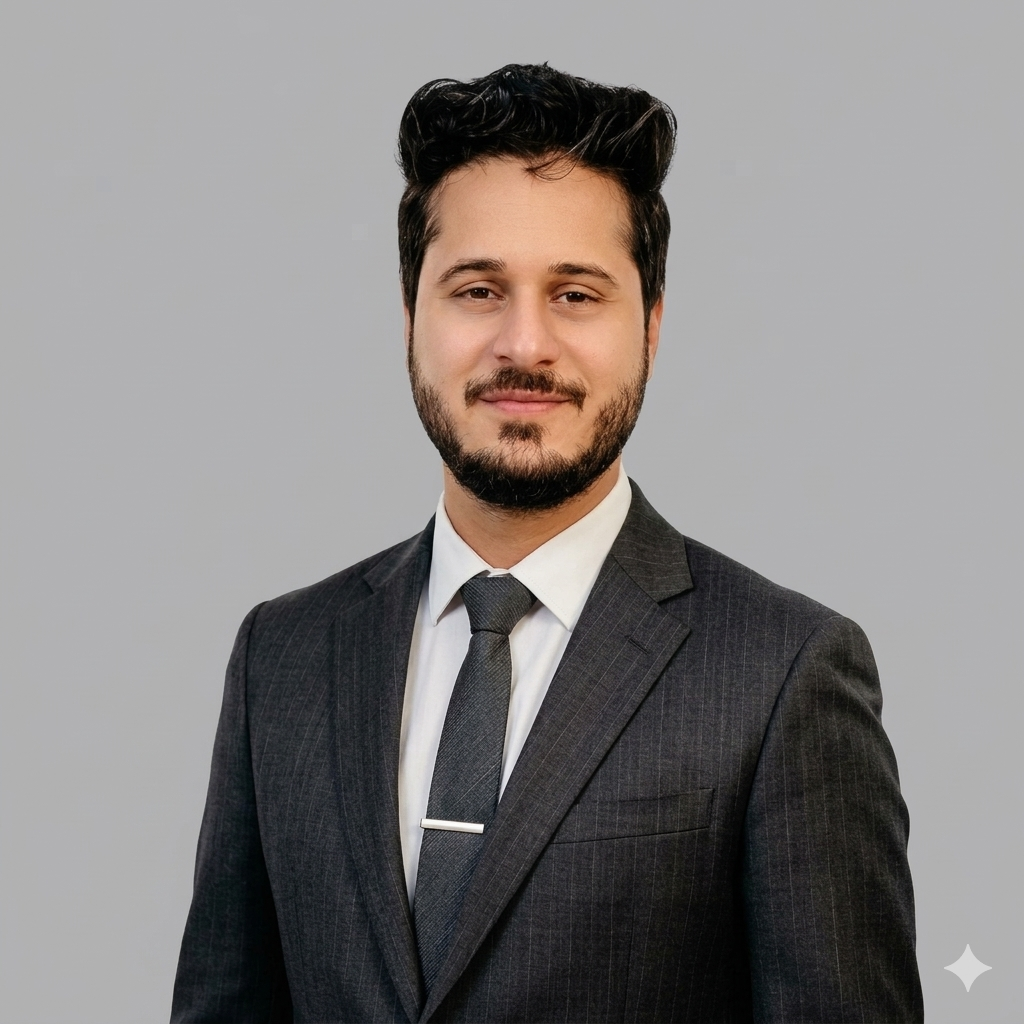
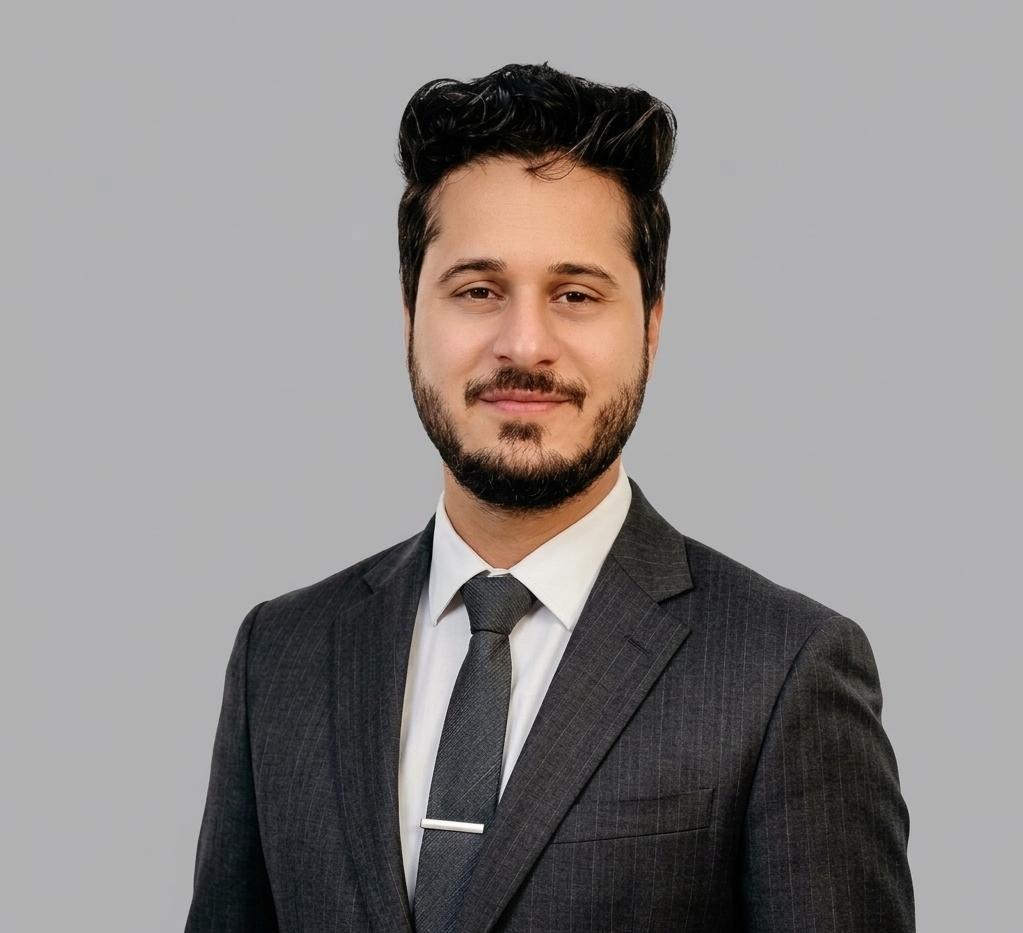
fix(cro): resolve P0/P1 conversion leaks and update founder photo across site

diff --git a/components/FounderSection.tsx b/components/FounderSection.tsx
@@ -85,17 +85,6 @@ const profileLinks = [
     ),
   },
   {
-    href: "https://www.upwork.com/freelancers/~01400266ea842005be",
-    label: "Upwork",
-    bg: "#EAF3DE",
-    textColor: "#27500A",
-    icon: (
-      <svg className="h-4 w-4" viewBox="0 0 24 24" fill="currentColor">
-        <path d="M18.561 13.158c-1.102 0-2.135-.467-3.074-1.227l.228-1.076.008-.042c.207-1.143.849-3.06 2.839-3.06 1.492 0 2.703 1.212 2.703 2.703-.001 1.489-1.212 2.702-2.704 2.702zm0-8.14c-2.539 0-4.51 1.649-5.31 4.366-1.22-1.834-2.148-4.036-2.687-5.892H7.828v7.112c-.002 1.406-1.141 2.546-2.547 2.548-1.405-.002-2.543-1.143-2.545-2.548V3.492H0v7.112c0 2.914 2.37 5.303 5.281 5.303 2.913 0 5.283-2.389 5.283-5.303v-1.19c.529 1.107 1.182 2.229 1.974 3.221l-1.673 7.873h2.797l1.213-5.71c1.063.679 2.285 1.109 3.686 1.109 3 0 5.439-2.452 5.439-5.45 0-3.001-2.439-5.438-5.439-5.438z" />
-      </svg>
-    ),
-  },
-  {
     href: "https://www.researchgate.net/profile/Mubashar-Shahzad-4",
     label: "ResearchGate",
     bg: "#FAECE7",
@@ -132,20 +121,6 @@ const profileLinks = [
  
 export default function FounderSection() {
   return (
-    // Reworked into the same language as the rest of the page: flat token
-    // ground, hairline-bordered white cards at 12px with the soft
-    // 0 2px 12px shadow, and one accent instead of five.
-    //
-    // What went, and why:
-    //   - two gradient top-bars (purple -> green) and a gradient CTA button.
-    //     Semrush uses flat solid fills; a gradient reads as dated chrome next
-    //     to everything else here.
-    //   - the blurred blob behind the CTA card. Decoration on a credibility
-    //     block buys nothing.
-    //   - four pastel certificate chips and five pastel profile chips, each in
-    //     its own hue. Nine background colours in one section made a list of
-    //     verifiable credentials look like a sticker sheet; they are neutral
-    //     rows now, which reads as a record.
     <section className="border-y border-[#e6e8f0] bg-[#f8f9fc] py-20 sm:py-24">
       <div className="mx-auto max-w-6xl px-4 sm:px-6 lg:px-8">
         <motion.div
@@ -162,8 +137,7 @@ export default function FounderSection() {
           </h2>
           <p className="mt-4 text-lg leading-relaxed text-[#566070]">
             Every strategy here comes from campaigns I ran myself for US ecommerce, law firm
-            and local clients &mdash; and every credential below opens the certificate that
-            proves it.
+            and local clients &mdash; backed by unedited Search Console and store revenue proof.
           </p>
         </motion.div>
 
@@ -174,33 +148,27 @@ export default function FounderSection() {
             whileInView={{ opacity: 1, y: 0 }}
             viewport={{ once: true }}
             transition={{ duration: 0.5 }}
-            className="rounded-xl border border-[#e6e8f0] bg-white shadow-[0_2px_12px_rgba(0,0,0,0.05)]"
+            className="flex flex-col justify-between rounded-xl border border-[#e6e8f0] bg-white shadow-[0_2px_12px_rgba(0,0,0,0.05)]"
           >
             <div className="border-b border-[#eef0f6] p-6 sm:p-7">
               <div className="flex items-center gap-4">
-                <div className="relative h-16 w-16 shrink-0 overflow-hidden rounded-full">
+                <div className="relative h-20 w-20 shrink-0 overflow-hidden rounded-full border border-[#e6e8f0] bg-[#eaecf3]">
                   <Image
                     src="/images/mubashar-sharif.jpg"
                     alt="Mubashar Sharif, Founder and CEO of SearchPrex"
                     fill
-                    sizes="64px"
-                    /* The portrait is a wide office shot, so at 64px the face
-                       would sit small in the middle of the room. Scaling in CSS
-                       frames the head without cropping the file itself. */
-                    className="origin-[52%_26%] scale-[1.75] object-cover"
+                    sizes="80px"
+                    className="object-cover object-top"
                   />
                 </div>
                 <div className="min-w-0">
                   <h3 className="text-xl font-bold text-[#0a0f2e]">Mubashar Sharif</h3>
                   <p className="text-sm text-[#566070]">
-                    Founder &amp; CEO &middot; SearchPrex &mdash; SEO Analyst, 5+ years
+                    Founder &amp; CEO &middot; SearchPrex &mdash; SEO Strategist, 5+ years
                   </p>
-                  <div className="mt-1.5 flex items-center gap-1">
-                    {[...Array(5)].map((_, i) => (
-                      <Star key={i} className="h-3 w-3 fill-[#EF9F27] text-[#EF9F27]" />
-                    ))}
-                    <span className="ml-1 text-xs text-[#566070]">Upwork Top Rated</span>
-                  </div>
+                  <p className="mt-1 text-xs font-semibold text-[#196b4d]">
+                    Direct Founder Execution &middot; US Market Exclusivity
+                  </p>
                 </div>
               </div>
 
@@ -214,39 +182,6 @@ export default function FounderSection() {
                 with US organic clicks up 83% over the same period. Every number I publish comes
                 from a Search Console export I can show you.&rdquo;
               </blockquote>
-            </div>
-
-            {/* Certificates: a checkable list, not a sticker sheet */}
-            <div className="border-b border-[#eef0f6] p-6 sm:p-7">
-              <p className="text-xs font-bold uppercase tracking-widest text-[#5f6a78]">
-                Semrush certified &mdash; click to verify
-              </p>
-              <div className="mt-4 grid gap-2 sm:grid-cols-2">
-                {credentials.map((c) => (
-                  <Link
-                    key={c.label}
-                    href={c.href}
-                    target="_blank"
-                    rel="noopener noreferrer"
-                    className="group flex items-start gap-2.5 rounded-lg border border-[#e6e8f0] bg-white px-3 py-2.5 transition-colors hover:border-[#534AB7]/40 hover:bg-[#fafbfd]"
-                  >
-                    <CheckCircle
-                      className="mt-0.5 h-4 w-4 shrink-0"
-                      style={{ color: c.color }}
-                      aria-hidden="true"
-                    />
-                    <span className="min-w-0">
-                      <span className="block text-sm font-bold leading-snug text-[#0a0f2e]">
-                        {c.label}
-                      </span>
-                      <span className="mt-0.5 flex items-center gap-1 text-xs text-[#566070]">
-                        {c.sub}
-                        <ExternalLink className="h-3 w-3 opacity-60 transition-opacity group-hover:opacity-100" />
-                      </span>
-                    </span>
-                  </Link>
-                ))}
-              </div>
             </div>
 
             <div className="p-6 sm:p-7">

diff --git a/components/ArticleLeadMagnet.tsx b/components/ArticleLeadMagnet.tsx
@@ -103,6 +103,15 @@ function SuccessState({ website, email }: { website: string; email: string }) {
         I&apos;ll read {website.trim() || "your site"} myself and reply to{" "}
         <strong style={{ color: INK }}>{email.trim()}</strong> within 24 hours.
       </p>
+      <a
+        href={CALL_HREF}
+        target="_blank"
+        rel="noopener noreferrer"
+        className="mt-3 inline-flex items-center justify-center rounded-lg px-3.5 py-2 text-xs font-bold text-white transition-opacity hover:opacity-90"
+        style={{ background: GREEN }}
+      >
+        Want to talk sooner? Book 30 min →
+      </a>
     </div>
   );
 }
@@ -149,6 +158,7 @@ function SidebarVariant({ source, copy }: { source: string; copy?: Copy }) {
             <Globe className="pointer-events-none absolute left-3 top-1/2 h-3.5 w-3.5 -translate-y-1/2" style={{ color: "#94a3b8" }} aria-hidden="true" />
             <input
               type="text"
+              required
               value={website}
               onChange={(e) => setWebsite(e.target.value)}
               placeholder="yoursite.com"
@@ -227,6 +237,7 @@ function BannerVariant({ source, copy }: { source: string; copy?: Copy }) {
                 <Globe className="pointer-events-none absolute left-3.5 top-1/2 h-4 w-4 -translate-y-1/2" style={{ color: "#94a3b8" }} aria-hidden="true" />
                 <input
                   type="text"
+                  required
                   value={website}
                   onChange={(e) => setWebsite(e.target.value)}
                   placeholder="yoursite.com"
@@ -290,6 +301,7 @@ function BottomVariant({ source, copy }: { source: string; copy?: Copy }) {
                 <Globe className="pointer-events-none absolute left-3.5 top-1/2 h-4 w-4 -translate-y-1/2 text-white/40" aria-hidden="true" />
                 <input
                   type="text"
+                  required
                   value={website}
                   onChange={(e) => setWebsite(e.target.value)}
                   placeholder="yoursite.com"

diff --git a/components/BlogTeaser.tsx b/components/BlogTeaser.tsx
@@ -71,15 +71,13 @@ export default function BlogTeaser() {
               </p>
               <div className="mt-auto flex items-center justify-between border-t border-[#e5e7eb] pt-5">
                 <div className="flex items-center gap-2">
-                  {/* Wrapper clips the zoom: the portrait is a wide office
-                      shot, so the face needs framing at avatar sizes. */}
-                  <span className="relative block h-7 w-7 overflow-hidden rounded-full">
+                  <span className="relative block h-7 w-7 overflow-hidden rounded-full bg-[#eaecf3]">
                     <Image
                       src={featured.author.avatar}
                       alt={featured.author.name}
                       width={28}
                       height={28}
-                      className="h-7 w-7 origin-[52%_26%] scale-[1.75] object-cover"
+                      className="h-7 w-7 object-cover object-top scale-125 translate-y-0.5"
                     />
                   </span>
                   <span className="text-xs font-semibold text-[#0a0f2e]">
@@ -122,13 +120,13 @@ export default function BlogTeaser() {
                     {p.title}
                   </h3>
                   <div className="mt-auto flex items-center gap-2 border-t border-[#e5e7eb] pt-4">
-                    <span className="relative block h-6 w-6 overflow-hidden rounded-full">
+                    <span className="relative block h-6 w-6 overflow-hidden rounded-full bg-[#eaecf3]">
                       <Image
                         src={p.author.avatar}
                         alt={p.author.name}
                         width={24}
                         height={24}
-                        className="h-6 w-6 origin-[52%_26%] scale-[1.75] object-cover"
+                        className="h-6 w-6 object-cover object-top scale-125 translate-y-0.5"
                       />
                     </span>
                     <span className="text-xs font-semibold text-[#0a0f2e]">

diff --git a/app/page.tsx b/app/page.tsx
@@ -112,7 +112,7 @@ const TABS: AudienceTab[] = [
       "An AI intake assistant, so a 2am enquiry is not lost",
     ],
     proof: {
-      text: "No law firm client has been published yet. The practice-area pages show the plan, and the free tear-down lets you test me on your own firm first.",
+      text: "No law firm client has been published yet — which means the first firm I partner with in your city gets direct founder execution and market exclusivity while we build our flagship legal case study. Start with the free tear-down to test me on your firm first.",
       href: "/services/law-firm-seo",
       honest: true,
     },
@@ -418,7 +418,7 @@ export default function Home() {
       </section>
 
       {/* 4 · MID FORM */}
-      <section className="px-4 py-16 sm:px-6">
+      <section id="mid-audit-form" className="px-4 py-16 sm:px-6">
         <div className="mx-auto max-w-4xl rounded-[2rem] border border-[#dcdaf6] bg-[#f6f5ff] px-6 py-10 text-center sm:px-10">
           <h2 className={`${H} text-2xl  tracking-tight text-[#0a0f2e] sm:text-3xl`}>Want to know where your site stands?</h2>
           <p className="mx-auto mt-3 max-w-xl text-[15px] leading-relaxed text-[#5b6472]">
@@ -657,7 +657,7 @@ export default function Home() {
         </div>
       </section>
       {/* 13 · CLOSE — the last thing on the page is the offer */}
-      <section className="px-4 pb-20 sm:px-6">
+      <section id="get-started" className="scroll-mt-24 px-4 pb-20 sm:px-6">
         <div className="mx-auto max-w-5xl rounded-[2rem] bg-[#0a0f2e] px-6 py-14 text-center sm:px-12">
           <h2 className={`${H} mx-auto max-w-2xl text-3xl  tracking-tight text-white sm:text-4xl`}>
             Send me your URL. I&apos;ll tell you what&apos;s holding it back.

diff --git a/components/home/PillForm.tsx b/components/home/PillForm.tsx
@@ -88,11 +88,21 @@ export default function PillForm({ source, tone = "light", cta = "Get my free te
 
   if (step === "done") {
     return (
-      <div className={`mx-auto flex max-w-xl items-start gap-3 rounded-3xl border p-5 text-left ${dark ? "border-white/15 bg-white/[0.06]" : "border-[#bfe5d3] bg-[#effaf5]"}`}>
-        <CheckCircle className="mt-0.5 h-5 w-5 flex-shrink-0 text-[#1a7d59]" aria-hidden />
-        <p className={`text-sm leading-relaxed ${dark ? "text-white/85" : "text-[#0a0f2e]"}`}>
-          <strong>Got it.</strong> I&apos;ll read {website.trim()} myself and reply to <strong>{email.trim()}</strong> within 24 hours.
-        </p>
+      <div className={`mx-auto flex max-w-xl flex-col gap-3 rounded-3xl border p-5 text-left sm:flex-row sm:items-center sm:justify-between ${dark ? "border-white/15 bg-white/[0.06]" : "border-[#bfe5d3] bg-[#effaf5]"}`}>
+        <div className="flex items-start gap-3">
+          <CheckCircle className="mt-0.5 h-5 w-5 flex-shrink-0 text-[#1a7d59]" aria-hidden />
+          <p className={`text-sm leading-relaxed ${dark ? "text-white/85" : "text-[#0a0f2e]"}`}>
+            <strong>Got it.</strong> I&apos;ll read {website.trim()} myself and reply to <strong>{email.trim()}</strong> within 24 hours.
+          </p>
+        </div>
+        <a
+          href="https://calendly.com/contact-searchprex/30min"
+          target="_blank"
+          rel="noopener noreferrer"
+          className="inline-flex shrink-0 items-center justify-center gap-1.5 rounded-full bg-[#1a7d59] px-4 py-2 text-xs font-bold text-white transition-colors hover:bg-[#196b4d]"
+        >
+          Book 30-min call <ArrowRight className="h-3.5 w-3.5" aria-hidden />
+        </a>
       </div>
     );
   }

diff --git a/app/free-audit/FreeAuditClient.tsx b/app/free-audit/FreeAuditClient.tsx
@@ -200,12 +200,23 @@ export default function FreeAuditClient() {
                 <strong className="font-bold text-[#0a0f2e]">{form.email}</strong> within 24
                 hours.
               </p>
-              <Link
-                href="/"
-                className="mt-6 inline-flex items-center gap-1.5 text-sm font-bold text-[#196b4d] transition-colors hover:text-[#1a7d59]"
-              >
-                Back to home
-              </Link>
+              <div className="mt-6 flex flex-col gap-3 border-t border-[#eef0f6] pt-5">
+                <a
+                  href="https://calendly.com/contact-searchprex/30min"
+                  target="_blank"
+                  rel="noopener noreferrer"
+                  className="inline-flex w-full items-center justify-center gap-2 rounded-xl bg-[#1a7d59] px-5 py-3 text-sm font-bold text-white transition-colors hover:bg-[#156648]"
+                >
+                  Want to talk sooner? Book a 30-min call
+                  <ArrowRight className="h-4 w-4" aria-hidden="true" />
+                </a>
+                <Link
+                  href="/"
+                  className="inline-flex items-center justify-center gap-1.5 text-xs font-bold text-[#566070] transition-colors hover:text-[#0a0f2e]"
+                >
+                  ← Back to home
+                </Link>
+              </div>
             </div>
           ) : (
             <div className="overflow-hidden rounded-2xl border border-[#dfe3ec] bg-white shadow-[0_12px_36px_rgba(10,15,46,0.07)]">

diff --git a/components/HeroV2.tsx b/components/HeroV2.tsx
@@ -210,6 +210,15 @@ export default function HeroV2() {
                     </a>{" "}
                     and chase me.
                   </p>
+                  <a
+                    href={CALL_HREF}
+                    target="_blank"
+                    rel="noopener noreferrer"
+                    className="mt-4 inline-flex items-center justify-center rounded-lg px-4 py-2.5 text-xs font-bold text-white transition-opacity hover:opacity-90"
+                    style={{ background: GREEN }}
+                  >
+                    Want to talk sooner? Book a 30-min call →
+                  </a>
                 </div>
               ) : (
                 <form onSubmit={handleSubmit} className="flex flex-col gap-2.5">
@@ -221,6 +230,7 @@ export default function HeroV2() {
                     />
                     <input
                       type="text"
+                      required
                       value={website}
                       onChange={(e) => setWebsite(e.target.value)}
                       placeholder="yoursite.com"

diff --git a/components/ChatWidget.tsx b/components/ChatWidget.tsx
@@ -127,7 +127,7 @@ export default function ChatWidget() {
           <>
             <span className="relative h-10 w-10 flex-shrink-0 overflow-hidden rounded-full border-2 border-[#3eb489]">
               <Image
-                src="/images/mubashar-transparent.png"
+                src="/images/mubashar-sharif.jpg"
                 alt="Mubashar Sharif"
                 fill
                 sizes="40px"
@@ -175,7 +175,7 @@ export default function ChatWidget() {
                   <div className="relative">
                     <div className="relative h-11 w-11 overflow-hidden rounded-full border-2 border-[#3eb489]">
                       <Image
-                        src="/images/mubashar-transparent.png"
+                        src="/images/mubashar-sharif.jpg"
                         alt="Mubashar Sharif"
                         fill
                         sizes="44px"

diff --git a/components/Nav.tsx b/components/Nav.tsx
@@ -430,7 +430,7 @@ export default function Nav() {
                     onClick={() => setIsMobileMenuOpen(false)}
                     className="rounded-lg bg-[#534AB7] px-6 py-3 text-center text-sm font-bold text-white transition-colors hover:bg-[#3C3489]"
                   >
-                    Get My Growth Plan →
+                    Get My Free Audit →
                   </Link>
                 </div>
               </div>

diff --git a/components/StickyMobileCTA.tsx b/components/StickyMobileCTA.tsx
@@ -48,6 +48,8 @@ export default function StickyMobileCTA() {
       const hero = document.getElementById("hero");
       const forms = [
         document.getElementById("free-audit-form"),
+        document.getElementById("mid-audit-form"),
+        document.getElementById("get-started"),
         document.getElementById("tell-me-your-issue"),
         document.getElementById("quick-audit-heading"),
       ].filter(Boolean);
